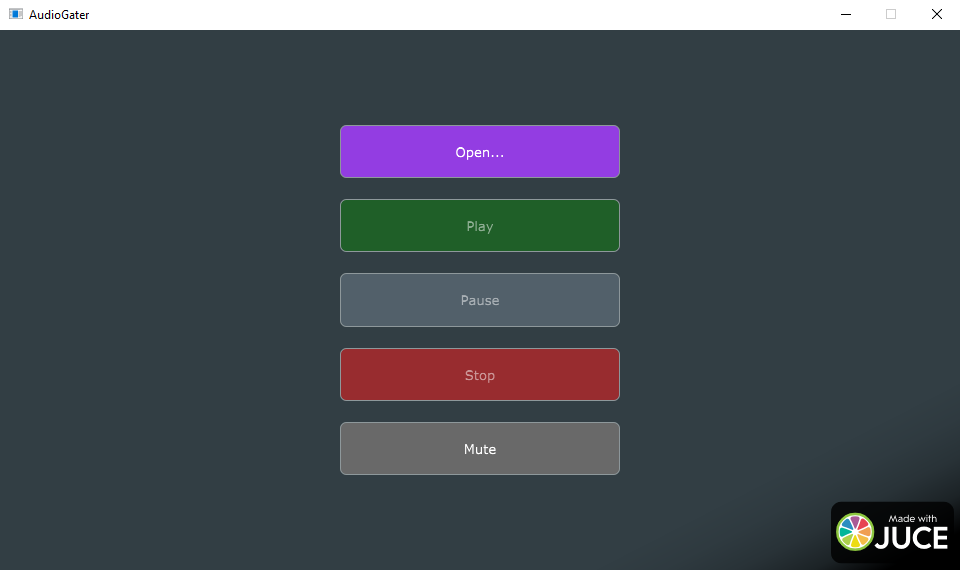
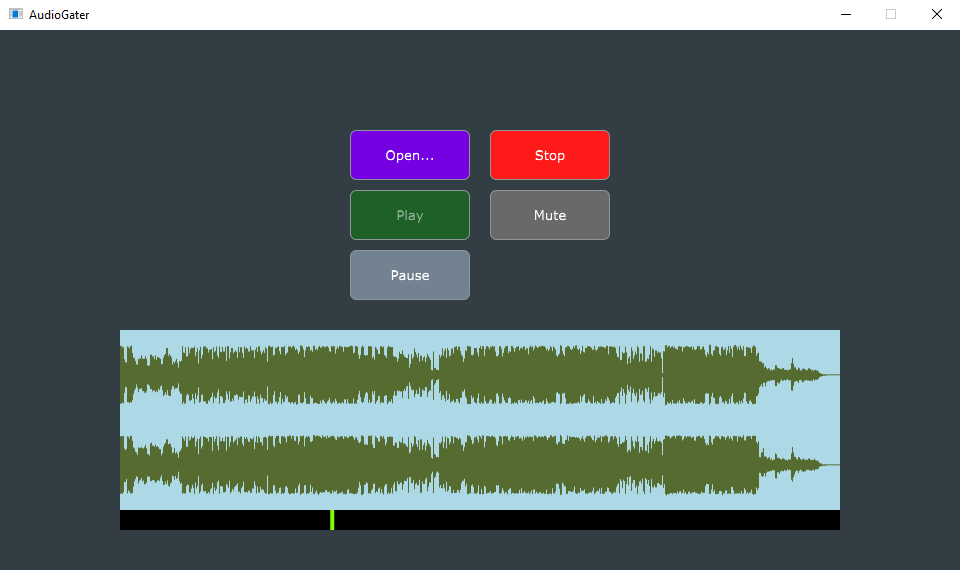
Transport bar feature implemented, fixed transport bugs

diff --git a/Source/AudioGaterApp.cpp b/Source/AudioGaterApp.cpp
@@ -1,7 +1,8 @@
 #include "AudioGaterApp.h"
 
 //==============================================================================
-AudioGaterApp::AudioGaterApp() : state(Stopped)
+AudioGaterApp::AudioGaterApp() :
+	state(Stopped), transportBar(formatManager, transportSource)
 {
 	addAndMakeVisible(&openBtn);
 	openBtn.setButtonText("Open...");
@@ -44,6 +45,8 @@ AudioGaterApp::AudioGaterApp() : state(Stopped)
 	{pauseBtnClicked(); };
 	pauseBtn.setColour(juce::TextButton::buttonColourId, juce::Colours::slategrey);
 	pauseBtn.setEnabled(false);
+
+	addAndMakeVisible(&transportBar);
 
 	addAndMakeVisible(&muteText);
 	muteText.setFont(juce::Font(190.0f, juce::Font::bold));
@@ -123,7 +126,8 @@ void AudioGaterApp::getNextAudioBlock(const juce::AudioSourceChannelInfo& buffer
 		}
 		else
 		{
-			transportSource.setPosition(transportSource.getCurrentPosition() + (bufferToFill.numSamples / device->getCurrentSampleRate()));
+			if (state == Started)
+				transportSource.setPosition(transportSource.getCurrentPosition() + (bufferToFill.numSamples / device->getCurrentSampleRate()));
 		}
 	}
 }
@@ -141,39 +145,16 @@ void AudioGaterApp::paint(juce::Graphics& g)
 
 void AudioGaterApp::resized()
 {
-	int vSpacing = getHeight() * 0.04;
-	int hSpacing = getWidth() * 0.04;
+	int buttonWidth = (int)(getWidth() / 8);
+	int buttonHeight = 50;
+	int spacing = 10;
 
-	juce::Grid grid;
-
-	using Track = juce::Grid::TrackInfo;
-	using Fr = juce::Grid::Fr;
-
-	grid.templateRows = {
-		Track(Fr(1)),
-		Track(Fr(1)),
-		Track(Fr(1)),
-		Track(Fr(1)),
-		Track(Fr(1)),
-		Track(Fr(1)),
-		Track(Fr(1)) };
-	grid.templateColumns = {
-		Track(Fr(1)),
-		Track(Fr(1)),
-		Track(Fr(1)) };
-
-	grid.columnGap.pixels = hSpacing;
-	grid.rowGap.pixels = vSpacing;
-
-	grid.items = {
-		juce::GridItem(openBtn).withArea(2, 2),
-		juce::GridItem(playBtn).withArea(3, 2),
-		juce::GridItem(pauseBtn).withArea(4, 2),
-		juce::GridItem(stopBtn).withArea(5, 2),
-		juce::GridItem(muteBtn).withArea(6, 2)
-	};
-
-	grid.performLayout(getLocalBounds().reduced(vSpacing));
+	openBtn.setBounds((int)(getWidth() / 2) - (spacing + buttonWidth), (int)(getHeight() - 440 + (spacing + buttonHeight) * 0), buttonWidth, buttonHeight);
+	playBtn.setBounds((int)(getWidth() / 2) - (spacing + buttonWidth), (int)(getHeight() - 440 + (spacing + buttonHeight) * 1), buttonWidth, buttonHeight);
+	pauseBtn.setBounds((int)(getWidth() / 2) - (spacing + buttonWidth), (int)(getHeight() - 440 + (spacing + buttonHeight) * 2), buttonWidth, buttonHeight);
+	stopBtn.setBounds((int)(getWidth() / 2) + spacing, (int)(getHeight() - 440 + (spacing + buttonHeight) * 0), buttonWidth, buttonHeight);
+	muteBtn.setBounds((int)(getWidth() / 2) + spacing, (int)(getHeight() - 440 + (spacing + buttonHeight) * 1), buttonWidth, buttonHeight);
+	transportBar.setBounds((int)(getWidth() / 8), (int)(getHeight() - 240), (int)(getWidth() - getWidth() / 8 * 2), 200);
 
 	muteText.setBounds(0, 0, getWidth(), getHeight());
 	unmuteBtn.setBounds(0, 0, getWidth(), getHeight());
@@ -199,16 +180,6 @@ void AudioGaterApp::changeListenerCallback(juce::ChangeBroadcaster* source)
 		else
 			changeState(Stopped);
 	}
-}
-
-double AudioGaterApp::getSongLengthInSeconds()
-{
-	return readerSource != nullptr ? readerSource->getAudioFormatReader()->lengthInSamples / readerSource->getAudioFormatReader()->sampleRate : 0.0;
-}
-
-double AudioGaterApp::getCurrentPositionInSeconds()
-{
-	return transportSource.isPlaying() ? transportSource.getCurrentPosition() : 0.0;
 }
 
 juce::String AudioGaterApp::formatTime(int seconds)
@@ -242,6 +213,7 @@ void AudioGaterApp::openBtnClicked()
 				{
 					auto newSource = std::make_unique<juce::AudioFormatReaderSource>(reader, true);
 					transportSource.setSource(newSource.get(), 0, nullptr, reader->sampleRate);
+					transportBar.setSource(file);
 					changeState(Stopped);
 					readerSource.reset(newSource.release());
 				}

diff --git a/Source/AudioGaterApp.h b/Source/AudioGaterApp.h
@@ -2,6 +2,40 @@
 
 #include <JuceHeader.h>
 
+class TransportSlider : public juce::Component, private juce::Timer
+{
+public:
+	TransportSlider(juce::AudioTransportSource& audioSource);
+	~TransportSlider();
+	void paint(juce::Graphics& g) override;
+private:
+	void timerCallback() override;
+
+	juce::AudioTransportSource& audioSource;
+
+	void mouseDown(const juce::MouseEvent& event) override;
+	void mouseDrag(const juce::MouseEvent& event) override;
+	void setNewPlaybackPosition();
+};
+
+class TransportBar : public juce::Component, private juce::ChangeListener
+{
+public:
+	TransportBar(juce::AudioFormatManager& formatManager, juce::AudioTransportSource& audioSource);
+	~TransportBar();
+	void paint(juce::Graphics& g) override;
+	void setSource(juce::File& file);
+private:
+	void changeListenerCallback(juce::ChangeBroadcaster* source) override;
+	void TransportBar::paintIfNoFileLoaded(juce::Graphics& g);
+	void TransportBar::paintIfFileLoaded(juce::Graphics& g);
+
+	juce::AudioThumbnailCache audioThumbnailCache;
+	juce::AudioThumbnail audioThumbnail;
+	TransportSlider transportSlider;
+};
+
+
 //==============================================================================
 class AudioGaterApp : public juce::AudioAppComponent, public juce::ChangeListener, private juce::Timer
 {
@@ -50,6 +84,7 @@ private:
 
 	juce::Label muteText;
 
+	TransportBar transportBar;
 	juce::AudioFormatManager formatManager;
 	std::unique_ptr<juce::AudioFormatReaderSource> readerSource;
 	juce::AudioTransportSource transportSource;

diff --git a/Source/Components/TransportBar.cpp b/Source/Components/TransportBar.cpp
@@ -1,0 +1,49 @@
+#include "../AudioGaterApp.h"
+
+//==============================================================================
+
+TransportBar::TransportBar(juce::AudioFormatManager& formatManager, juce::AudioTransportSource& audioSource) :
+	audioThumbnailCache(5), audioThumbnail(2048, formatManager, audioThumbnailCache), transportSlider(audioSource)
+{
+	audioThumbnail.addChangeListener(this);
+	addAndMakeVisible(transportSlider);
+}
+
+TransportBar::~TransportBar()
+{
+}
+
+void TransportBar::paint(juce::Graphics& g)
+{
+	if (audioThumbnail.getNumChannels() == 0)
+		paintIfNoFileLoaded(g);
+	else
+		paintIfFileLoaded(g);
+}
+
+void TransportBar::paintIfNoFileLoaded(juce::Graphics& g)
+{
+	g.fillAll(juce::Colours::lightblue);
+	g.setColour(juce::Colours::darkgrey);
+	g.drawFittedText("No File Loaded", getLocalBounds(), juce::Justification::centred, 1);
+}
+
+void TransportBar::paintIfFileLoaded(juce::Graphics& g)
+{
+	g.fillAll(juce::Colours::lightblue);
+
+	g.setColour(juce::Colours::darkolivegreen);
+	audioThumbnail.drawChannels(g, juce::Rectangle<int>(0, 0, getWidth(), getHeight() - 20), 0.0, audioThumbnail.getTotalLength(), 1.0f);
+	transportSlider.setBounds(0, getHeight() - 20, getWidth(), 20);
+}
+
+void TransportBar::setSource(juce::File& file)
+{
+	audioThumbnail.setSource(new juce::FileInputSource(file));
+}
+
+void TransportBar::changeListenerCallback(juce::ChangeBroadcaster* source)
+{
+	if (source == &audioThumbnail)
+		repaint();
+}

diff --git a/Source/Components/TransportSlider.cpp b/Source/Components/TransportSlider.cpp
@@ -1,0 +1,56 @@
+#include "../AudioGaterApp.h"
+
+//==============================================================================
+TransportSlider::TransportSlider(juce::AudioTransportSource& audioSource) :
+	audioSource(audioSource)
+{
+	setOpaque(true);
+	startTimer(100);
+}
+
+TransportSlider::~TransportSlider()
+{
+}
+
+void TransportSlider::paint(juce::Graphics& g)
+{
+	float playbackPos = audioSource.getCurrentPosition();
+	float playbackDuration = audioSource.getLengthInSeconds();
+	float maxWidth = getWidth();
+	float drawPos = playbackPos / playbackDuration * maxWidth;
+
+	g.fillAll(juce::Colours::black);
+	g.setColour(juce::Colours::chartreuse);
+	g.drawLine(drawPos, 0, drawPos, getHeight(), 4);
+}
+
+void TransportSlider::timerCallback()
+{
+	repaint();
+}
+
+void TransportSlider::mouseDown(const juce::MouseEvent& event)
+{
+	setNewPlaybackPosition();
+}
+
+void TransportSlider::mouseDrag(const juce::MouseEvent& event)
+{
+	setNewPlaybackPosition();
+}
+
+void TransportSlider::setNewPlaybackPosition()
+{
+	double xPos = getMouseXYRelative().getX();
+	double maxWidth = getWidth();
+
+	if (xPos > maxWidth)
+		xPos = maxWidth;
+
+	double playbackPos = xPos / maxWidth * audioSource.getLengthInSeconds();
+
+	if (playbackPos < 0)
+		playbackPos = 0;
+
+	audioSource.setPosition(playbackPos);
+}

diff --git a/README.md b/README.md
@@ -19,7 +19,9 @@ _Image reflects current state_
 
 - **Audio Track Playback with Transport:** Load, play, pause, resume and stop audio tracks.
 
-- **Transport Bar:** Navigate through audio tracks with a responsive transport bar. (To Be Added)
+- **Transport Bar:** Navigate through audio tracks with a responsive transport bar.
+
+- **Track Details:** View the currently playing audio file details and informations. (To Be Added)
 
 - **Input Signal Detection:** The application accurately detects input signals from connected devices such as microphones.
 
